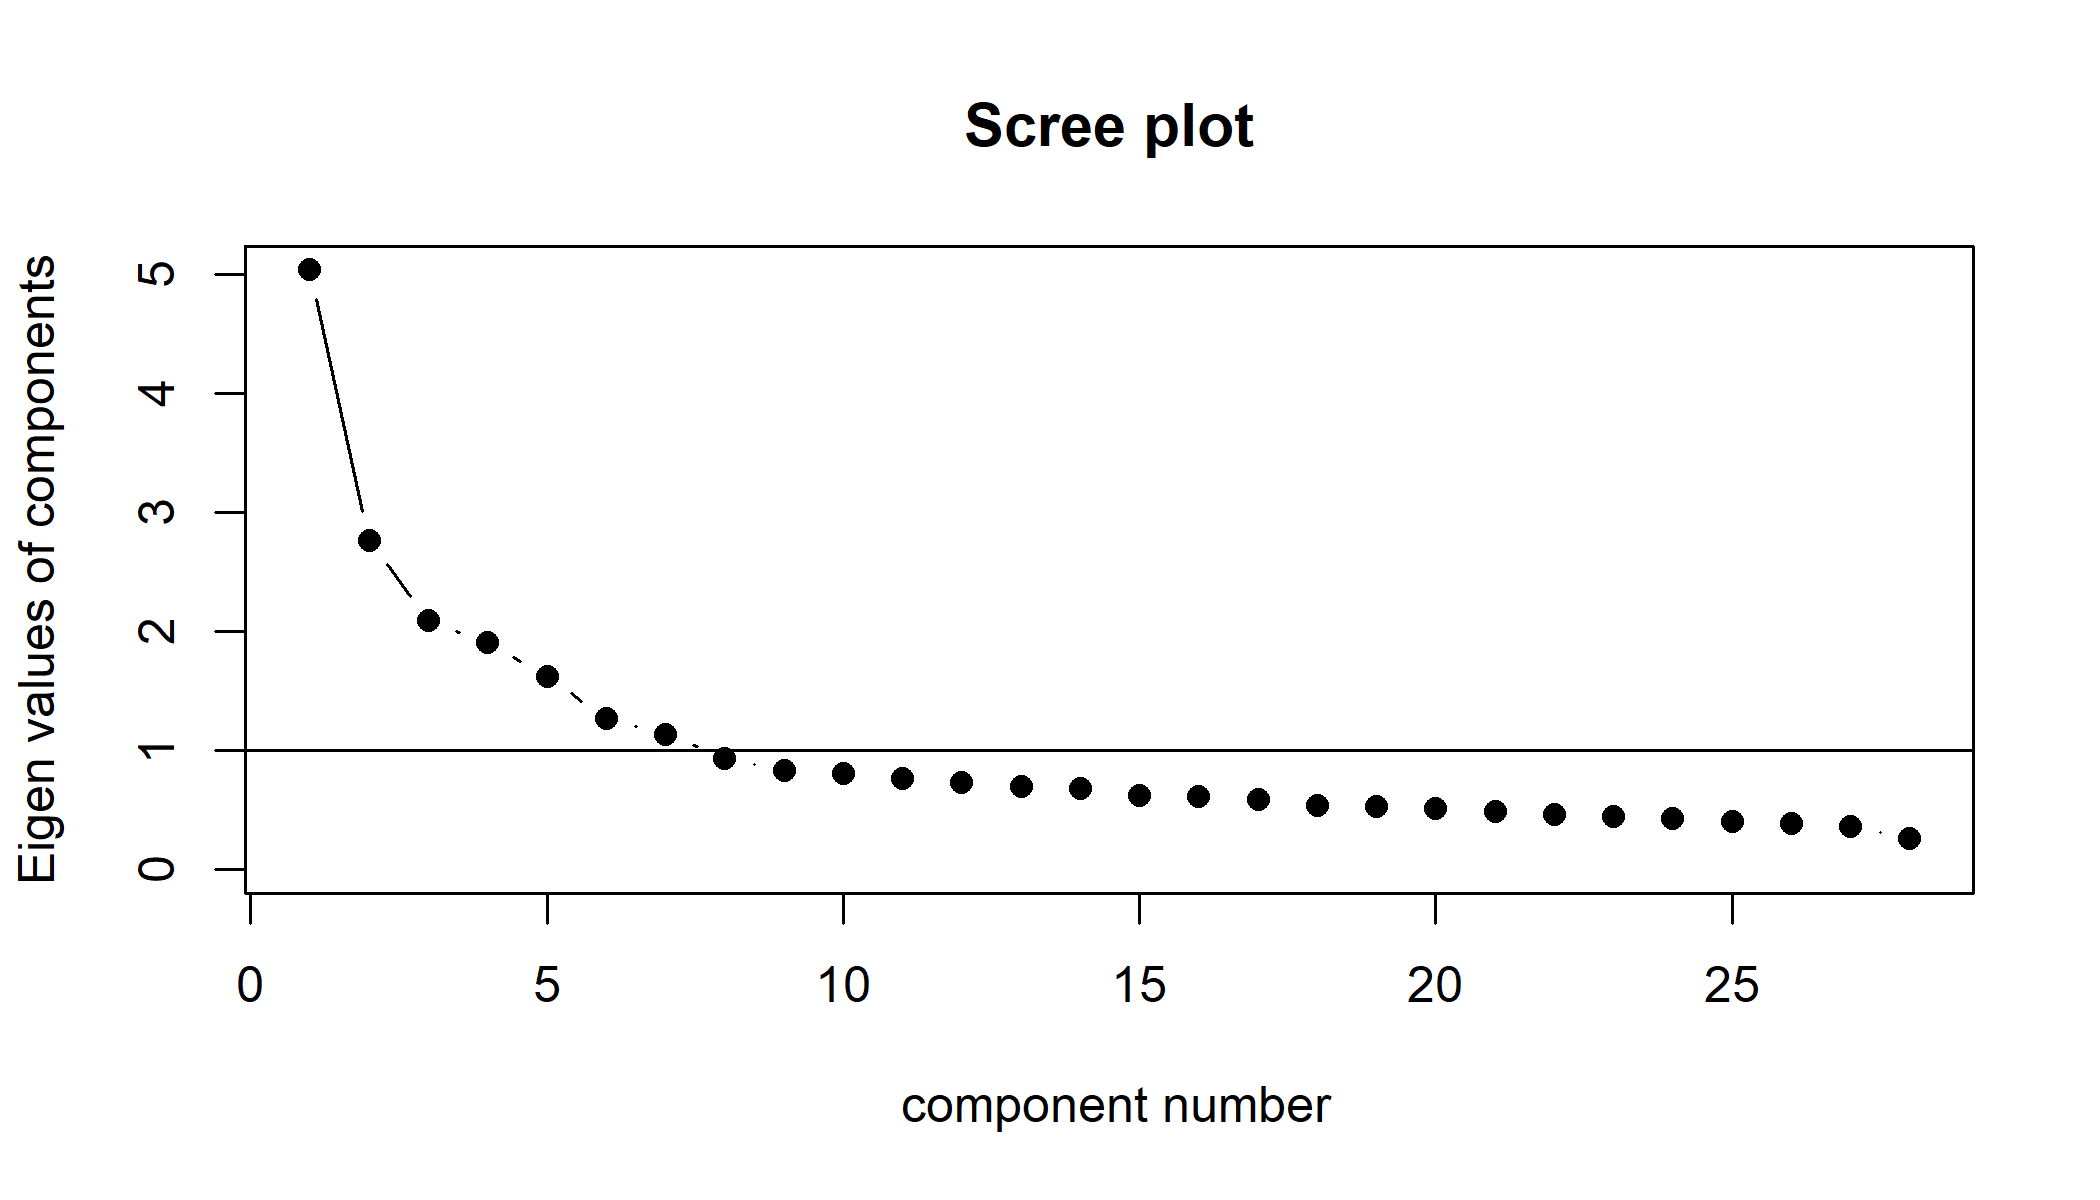
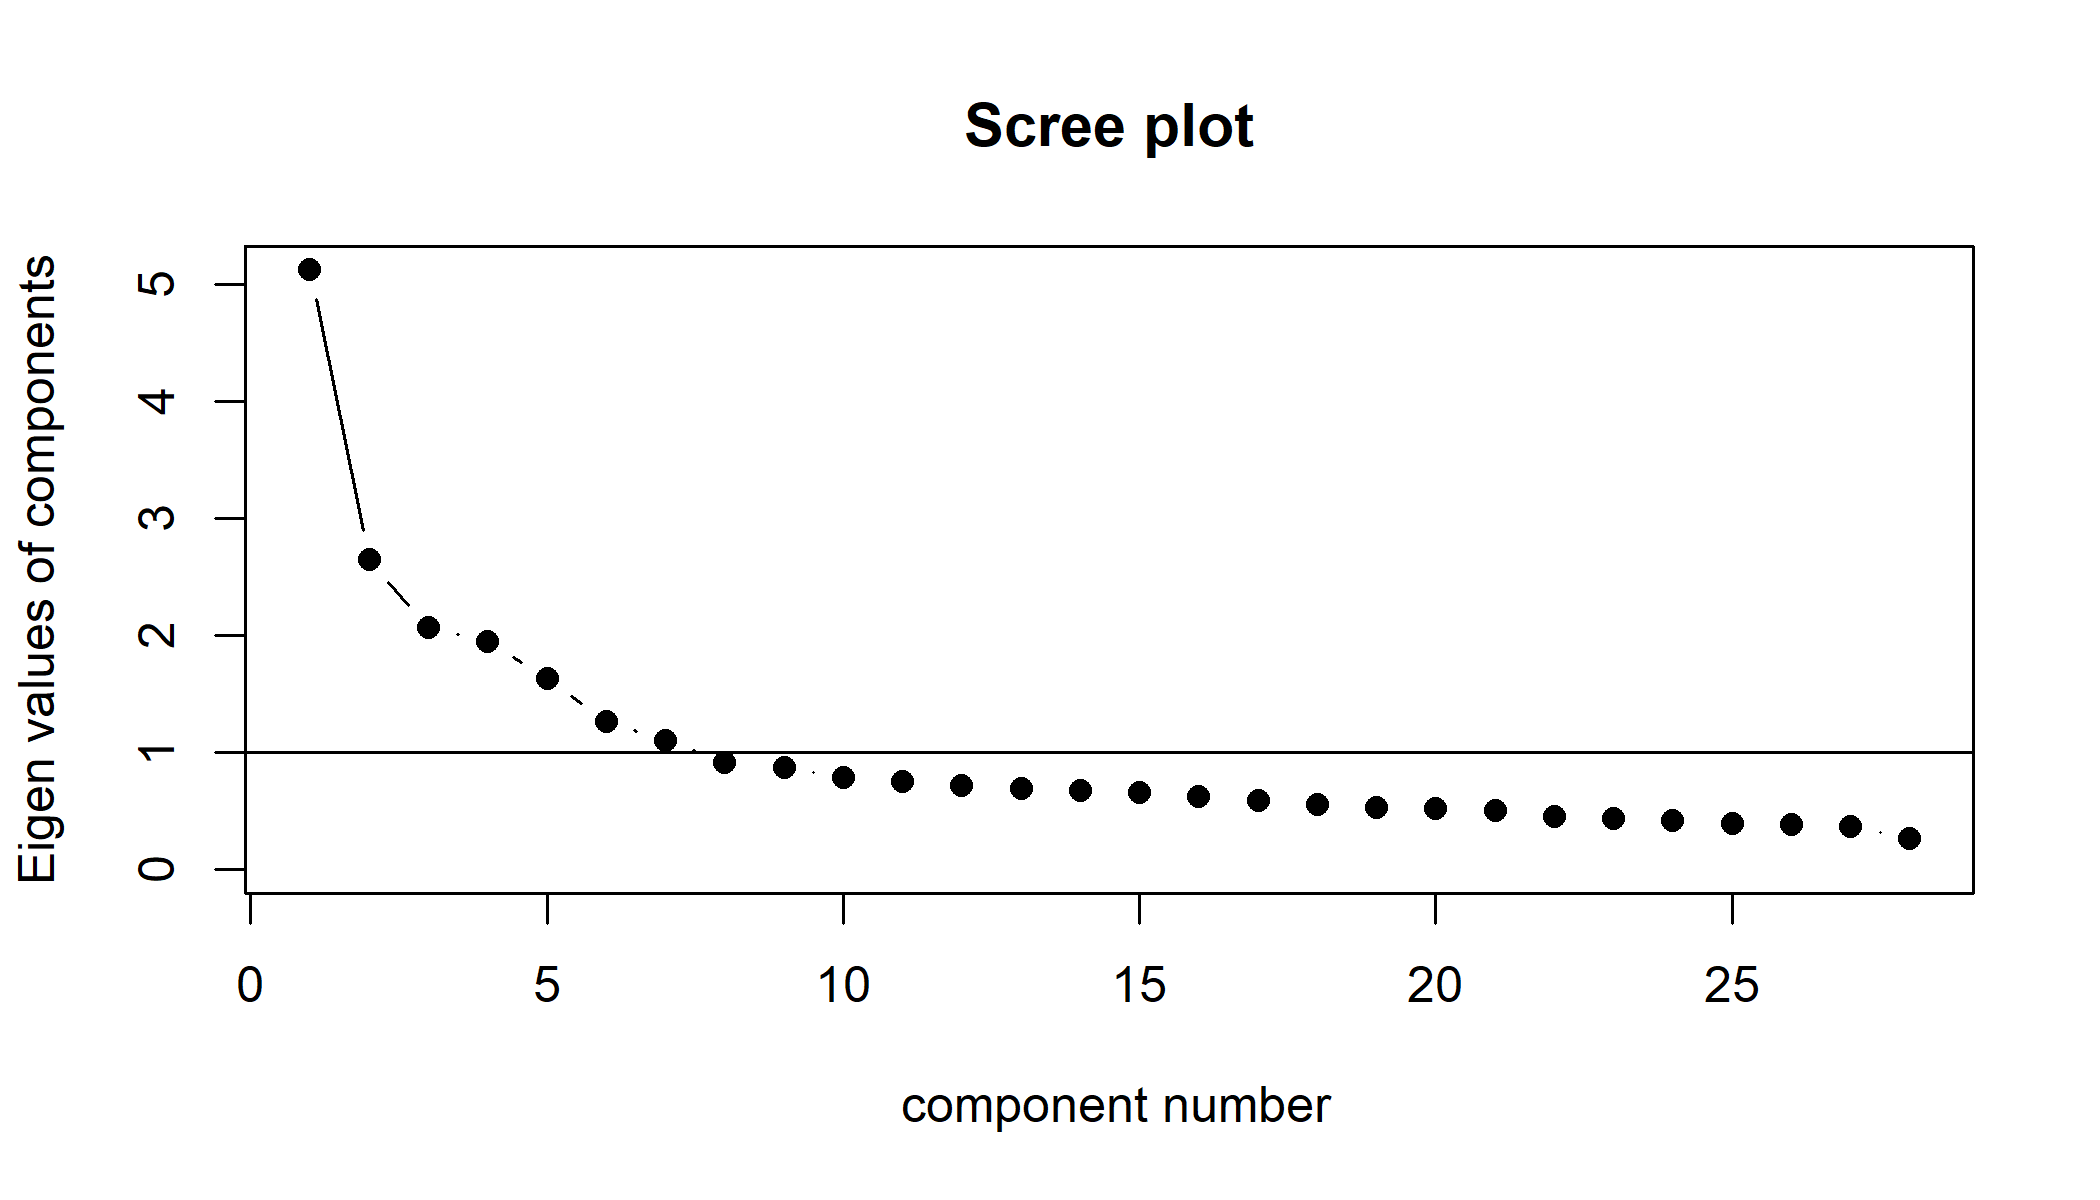
weiter

diff --git a/Predavanja/05_FA.html b/Predavanja/05_FA.html
@@ -257,7 +257,7 @@ fa.diagram(EFA_model)
 
 ---
 class: inverse, center, middle
-name: uni
+name: multi
 
 # MULTIDIMENZIONALNA FA
 
@@ -361,7 +361,7 @@ names(bfi)
 # Konstrukt
 
 
-&lt;img src="../Foto/bfi_FA.png" width="550px" style="display: block; margin: auto;" /&gt;
+&lt;img src="../Foto/bfi_FA.png" width="350px" style="display: block; margin: auto;" /&gt;
 
 ---
 
@@ -400,11 +400,11 @@ head(bfi_EFA, 2)
 
 ```
 ##       A1 A2 A3 A4 A5 C1 C2 C3 C4 C5 E1 E2 E3 E4 E5 N1 N2 N3 N4 N5 O1 O2 O3 O4
-## 66757  1  5  4  2  3  4  4  4  4  4  2  5  3  3  5  4  5  5  5  4  5  2  5  6
-## 61838  2  5  5  5  2  6  6  4  1  5  3  2  2  2  5  4  5  5  5  4  6  2  5  6
+## 64772  3  4  5  4  5  4  3  3  3  5  1  2  4  4  6  4  3  2  4  2  6  1  6  6
+## 65457  1  6  5  4  4  4  5  2  3  5  1  3  3  4  5  2  3  5  6  2  5  1  5  5
 ##       O5 gender education age
-## 66757  2      2         3  20
-## 61838  1      1         5  47
+## 64772  1      1         3  19
+## 65457  2      2        NA  14
 ```
 
 ```r
@@ -413,10 +413,10 @@ head(bfi_CFA, 2)
 
 ```
 ##       A1 A2 A3 A4 A5 C1 C2 C3 C4 C5 E1 E2 E3 E4 E5 N1 N2 N3 N4 N5 O1 O2 O3 O4
-## 61621  4  4  6  5  5  4  4  3  5  5  5  3  4  4  4  2  5  2  4  1  3  3  4  3
+## 61618  2  4  5  2  5  5  4  4  3  4  1  1  6  4  3  3  3  3  5  5  4  2  4  3
 ## 61622  2  3  3  4  5  4  4  5  3  2  2  2  5  4  5  2  3  4  4  3  3  3  4  3
 ##       O5 gender education age
-## 61621  5      2        NA  17
+## 61618  3      2        NA  18
 ## 61622  3      1        NA  17
 ```
 
@@ -440,30 +440,30 @@ head(bfi_EFA_cor,4)
 
 ```
 ##            A1         A2         A3         A4         A5         C1
-## A1  1.0000000 -0.2905517 -0.1797569 -0.1152389 -0.1486122 0.04299655
-## A2 -0.2905517  1.0000000  0.4705169  0.3247143  0.3768249 0.07701518
-## A3 -0.1797569  0.4705169  1.0000000  0.3742130  0.5171336 0.07543533
-## A4 -0.1152389  0.3247143  0.3742130  1.0000000  0.3102930 0.07536331
-##              C2          C3         C4          C5          E1         E2
-## A1 -0.002448194 -0.02996083  0.1333576  0.03574983  0.07549226  0.0464424
-## A2  0.139923829  0.21361859 -0.1669517 -0.14535604 -0.19457962 -0.2120082
-## A3  0.153094440  0.18561061 -0.1248764 -0.18105411 -0.19044538 -0.2863968
-## A4  0.244990812  0.15952719 -0.1902153 -0.27455743 -0.14724379 -0.2195858
-##             E3           E4           E5          N1          N2          N3
-## A1 0.009534576 -0.007856327 -0.001052211  0.16088861  0.14810259  0.13358425
-## A2 0.222298697  0.271667622  0.295530922 -0.09170225 -0.04566059 -0.04753091
-## A3 0.385362851  0.384065949  0.261881467 -0.06206536 -0.07196310 -0.03090398
-## A4 0.203932623  0.310985718  0.196051005 -0.09297295 -0.13223958 -0.08540055
-##             N4           N5         O1         O2          O3          O4
-## A1  0.03678401  0.015232161 0.03119121 0.09623484 -0.07242904 -0.06865948
-## A2 -0.09154514 -0.008635105 0.10927224 0.03531233  0.18427587  0.11467326
-## A3 -0.14245659 -0.050154288 0.14851118 0.02710710  0.24336546  0.03559853
-## A4 -0.18335198 -0.056882695 0.08188023 0.01908792  0.10804088 -0.04474375
-##             O5     gender   education         age
-## A1  0.14229142 -0.1562980 -0.12812156 -0.14235404
-## A2 -0.09992000  0.1805420  0.00314298  0.07699440
-## A3 -0.03112728  0.1290228 -0.01288093  0.06249514
-## A4 -0.01052392  0.1270245 -0.03454948  0.13522774
+## A1  1.0000000 -0.3505093 -0.2763932 -0.1751496 -0.1722693 0.02206981
+## A2 -0.3505093  1.0000000  0.4554323  0.3288639  0.3664658 0.08165577
+## A3 -0.2763932  0.4554323  1.0000000  0.3908991  0.5030237 0.08899017
+## A4 -0.1751496  0.3288639  0.3908991  1.0000000  0.2823086 0.05208693
+##             C2         C3         C4          C5          E1         E2
+## A1 -0.02250393 -0.0423524  0.1508121  0.07512562  0.13409823  0.0863932
+## A2  0.11935528  0.1904713 -0.1749739 -0.14161183 -0.19947200 -0.2036074
+## A3  0.15648405  0.1351076 -0.1545443 -0.18862220 -0.21810410 -0.2919549
+## A4  0.22770176  0.1288228 -0.1296909 -0.22450922 -0.08316272 -0.1534721
+##            E3          E4          E5          N1          N2          N3
+## A1 -0.0577732 -0.07849661 -0.03255047  0.15526901  0.13082294  0.10315145
+## A2  0.2286430  0.23645760  0.28490551 -0.08243764 -0.07420536 -0.05114429
+## A3  0.3930356  0.35407531  0.25493723 -0.06997411 -0.11419995 -0.06294903
+## A4  0.1729540  0.25273446  0.13077119 -0.08496546 -0.13343960 -0.03461884
+##             N4           N5          O1          O2          O3           O4
+## A1  0.06119076  0.017117109 0.003841479  0.07754429 -0.07429083 -0.076591975
+## A2 -0.10908988 -0.001792059 0.106633299  0.01591266  0.14981870  0.068997813
+## A3 -0.15463796 -0.039619077 0.138747974 -0.03932385  0.22739595  0.004135995
+## A4 -0.13952043  0.012557748 0.029671749  0.03527579  0.05946149 -0.046614750
+##             O5     gender    education        age
+## A1  0.12312584 -0.1833013 -0.151549461 -0.1568229
+## A2 -0.10366193  0.1853337  0.017842732  0.1209288
+## A3 -0.05419832  0.1503068  0.053267805  0.1088078
+## A4  0.02829140  0.1149866  0.001402249  0.1355958
 ```
 ]
 
@@ -507,72 +507,72 @@ EFA_model
 ## Call: fa(r = bfi_EFA, nfactors = 6)
 ## Standardized loadings (pattern matrix) based upon correlation matrix
 ##             MR2   MR3   MR5   MR1   MR4   MR6    h2   u2 com
-## A1         0.11  0.06 -0.41 -0.07  0.06  0.46 0.348 0.65 2.2
-## A2         0.02  0.09  0.62 -0.04  0.02 -0.16 0.445 0.56 1.2
-## A3        -0.03  0.04  0.63 -0.10  0.08  0.06 0.506 0.49 1.1
-## A4        -0.06  0.20  0.39 -0.11 -0.07  0.02 0.271 0.73 1.8
-## A5        -0.19  0.02  0.55 -0.13  0.12  0.12 0.492 0.51 1.6
-## C1         0.04  0.51 -0.03  0.12  0.16  0.08 0.299 0.70 1.4
-## C2         0.09  0.68  0.06  0.15  0.07  0.12 0.481 0.52 1.2
-## C3         0.01  0.52  0.15  0.11 -0.03  0.05 0.301 0.70 1.3
-## C4         0.10 -0.65  0.04  0.11  0.04  0.22 0.547 0.45 1.4
-## C5         0.19 -0.52  0.00  0.19  0.09 -0.02 0.429 0.57 1.6
-## E1        -0.14  0.08 -0.12  0.60 -0.03  0.07 0.384 0.62 1.3
-## E2         0.03  0.00 -0.10  0.68 -0.07 -0.01 0.550 0.45 1.1
-## E3         0.00  0.01  0.26 -0.25  0.36  0.22 0.436 0.56 3.4
-## E4        -0.04  0.03  0.32 -0.45  0.04  0.28 0.536 0.46 2.6
-## E5         0.17  0.30  0.10 -0.37  0.21  0.02 0.391 0.61 3.2
-## N1         0.81 -0.02 -0.07 -0.09 -0.02  0.03 0.642 0.36 1.0
-## N2         0.84  0.03 -0.06 -0.08 -0.02 -0.05 0.673 0.33 1.0
-## N3         0.68 -0.03  0.07  0.12  0.04  0.07 0.546 0.45 1.1
-## N4         0.43 -0.13  0.07  0.42  0.10 -0.01 0.492 0.51 2.3
-## N5         0.43 -0.01  0.21  0.29 -0.15  0.07 0.373 0.63 2.7
-## O1        -0.04  0.05 -0.02  0.02  0.63  0.11 0.417 0.58 1.1
-## O2         0.12 -0.09  0.21  0.06 -0.33  0.29 0.271 0.73 3.3
-## O3         0.00  0.02  0.11 -0.07  0.62 -0.06 0.461 0.54 1.1
-## O4         0.09 -0.03  0.17  0.35  0.36 -0.09 0.259 0.74 2.7
-## O5         0.02 -0.01  0.06  0.01 -0.46  0.39 0.360 0.64 2.0
-## gender     0.15  0.13  0.29 -0.03 -0.24 -0.17 0.165 0.83 3.7
-## education  0.00  0.00  0.04  0.06  0.09 -0.23 0.066 0.93 1.5
-## age       -0.06  0.07  0.10  0.01  0.06 -0.24 0.089 0.91 1.9
+## A1         0.09  0.05 -0.55 -0.06  0.03  0.35 0.377 0.62 1.8
+## A2         0.02  0.08  0.61 -0.05  0.02 -0.06 0.419 0.58 1.1
+## A3        -0.03  0.04  0.61 -0.13  0.08  0.12 0.518 0.48 1.2
+## A4        -0.06  0.15  0.45 -0.01 -0.11  0.13 0.282 0.72 1.6
+## A5        -0.14  0.02  0.47 -0.17  0.12  0.20 0.456 0.54 2.1
+## C1         0.04  0.57 -0.08  0.06  0.18  0.04 0.362 0.64 1.3
+## C2         0.09  0.64  0.08  0.19  0.10  0.16 0.466 0.53 1.5
+## C3        -0.01  0.55  0.09  0.08 -0.06  0.07 0.311 0.69 1.2
+## C4         0.07 -0.64 -0.02  0.14  0.01  0.28 0.568 0.43 1.5
+## C5         0.17 -0.56 -0.02  0.16  0.12  0.00 0.438 0.56 1.5
+## E1        -0.15  0.07 -0.11  0.63 -0.10  0.12 0.441 0.56 1.4
+## E2         0.08 -0.04 -0.05  0.67 -0.05  0.00 0.546 0.45 1.1
+## E3         0.01  0.00  0.20 -0.30  0.37  0.28 0.480 0.52 3.4
+## E4        -0.04  0.01  0.20 -0.52  0.01  0.29 0.506 0.49 1.9
+## E5         0.14  0.29  0.07 -0.33  0.24  0.02 0.362 0.64 3.3
+## N1         0.81  0.00 -0.07 -0.09 -0.03  0.02 0.645 0.36 1.0
+## N2         0.82  0.02 -0.07 -0.07 -0.03 -0.06 0.658 0.34 1.0
+## N3         0.70 -0.03  0.07  0.10  0.04  0.05 0.547 0.45 1.1
+## N4         0.44 -0.15  0.06  0.38  0.10  0.01 0.466 0.53 2.4
+## N5         0.46  0.01  0.19  0.20 -0.16  0.09 0.340 0.66 2.1
+## O1        -0.07  0.04 -0.05 -0.03  0.62  0.08 0.413 0.59 1.1
+## O2         0.11 -0.09  0.11  0.02 -0.39  0.28 0.269 0.73 2.4
+## O3        -0.02  0.06  0.07 -0.06  0.62  0.00 0.452 0.55 1.1
+## O4         0.14 -0.05  0.15  0.32  0.35 -0.07 0.231 0.77 2.8
+## O5         0.04  0.00 -0.01  0.03 -0.46  0.35 0.344 0.66 1.9
+## gender     0.18  0.08  0.33 -0.07 -0.22 -0.12 0.171 0.83 3.1
+## education -0.02  0.01  0.14  0.08  0.09 -0.21 0.069 0.93 2.6
+## age       -0.08  0.09  0.20  0.02  0.02 -0.24 0.116 0.88 2.5
 ## 
 ##                        MR2  MR3  MR5  MR1  MR4  MR6
-## SS loadings           2.52 2.03 2.08 2.04 1.67 0.90
+## SS loadings           2.53 2.07 2.02 2.03 1.75 0.84
 ## Proportion Var        0.09 0.07 0.07 0.07 0.06 0.03
 ## Cumulative Var        0.09 0.16 0.24 0.31 0.37 0.40
-## Proportion Explained  0.22 0.18 0.19 0.18 0.15 0.08
-## Cumulative Proportion 0.22 0.40 0.59 0.77 0.92 1.00
+## Proportion Explained  0.23 0.18 0.18 0.18 0.16 0.07
+## Cumulative Proportion 0.23 0.41 0.59 0.77 0.93 1.00
 ## 
 ##  With factor correlations of 
 ##       MR2   MR3   MR5   MR1   MR4   MR6
-## MR2  1.00 -0.20 -0.05  0.26 -0.03  0.13
-## MR3 -0.20  1.00  0.22 -0.20  0.18 -0.01
-## MR5 -0.05  0.22  1.00 -0.27  0.21  0.10
-## MR1  0.26 -0.20 -0.27  1.00 -0.17 -0.08
-## MR4 -0.03  0.18  0.21 -0.17  1.00  0.00
-## MR6  0.13 -0.01  0.10 -0.08  0.00  1.00
+## MR2  1.00 -0.19 -0.09  0.25 -0.05  0.09
+## MR3 -0.19  1.00  0.21 -0.21  0.19  0.01
+## MR5 -0.09  0.21  1.00 -0.28  0.18  0.12
+## MR1  0.25 -0.21 -0.28  1.00 -0.22 -0.07
+## MR4 -0.05  0.19  0.18 -0.22  1.00  0.02
+## MR6  0.09  0.01  0.12 -0.07  0.02  1.00
 ## 
-## Mean item complexity =  1.9
+## Mean item complexity =  1.8
 ## Test of the hypothesis that 6 factors are sufficient.
 ## 
-## The degrees of freedom for the null model are  378  and the objective function was  7.54 with Chi Square of  10471.4
+## The degrees of freedom for the null model are  378  and the objective function was  7.54 with Chi Square of  10475.01
 ## The degrees of freedom for the model are 225  and the objective function was  0.65 
 ## 
 ## The root mean square of the residuals (RMSR) is  0.03 
 ## The df corrected root mean square of the residuals is  0.03 
 ## 
-## The harmonic number of observations is  1374 with the empirical chi square  697.57  with prob &lt;  8.3e-50 
-## The total number of observations was  1400  with Likelihood Chi Square =  904.5  with prob &lt;  3.3e-82 
+## The harmonic number of observations is  1373 with the empirical chi square  678.94  with prob &lt;  4.5e-47 
+## The total number of observations was  1400  with Likelihood Chi Square =  904.7  with prob &lt;  3.1e-82 
 ## 
 ## Tucker Lewis Index of factoring reliability =  0.887
 ## RMSEA index =  0.046  and the 90 % confidence intervals are  0.043 0.05
-## BIC =  -725.45
+## BIC =  -725.26
 ## Fit based upon off diagonal values = 0.98
 ## Measures of factor score adequacy             
 ##                                                    MR2  MR3  MR5  MR1  MR4  MR6
-## Correlation of (regression) scores with factors   0.93 0.88 0.88 0.88 0.85 0.77
-## Multiple R square of scores with factors          0.86 0.78 0.77 0.78 0.73 0.59
-## Minimum correlation of possible factor scores     0.72 0.55 0.55 0.56 0.46 0.18
+## Correlation of (regression) scores with factors   0.93 0.88 0.88 0.88 0.86 0.76
+## Multiple R square of scores with factors          0.86 0.78 0.77 0.78 0.74 0.58
+## Minimum correlation of possible factor scores     0.71 0.56 0.53 0.56 0.47 0.17
 ```
 ]
 
@@ -590,39 +590,39 @@ EFA_model$loadings
 ## 
 ## Loadings:
 ##           MR2    MR3    MR5    MR1    MR4    MR6   
-## A1         0.110        -0.407                0.459
-## A2                       0.622               -0.164
-## A3                       0.635                     
-## A4                0.204  0.389 -0.106              
-## A5        -0.193         0.548 -0.128  0.118  0.119
-## C1                0.514         0.123  0.165       
-## C2                0.676         0.151         0.120
-## C3                0.520  0.150  0.106              
-## C4         0.104 -0.652         0.115         0.219
-## C5         0.193 -0.523         0.188              
-## E1        -0.136        -0.124  0.605              
-## E2                      -0.102  0.682              
-## E3                       0.262 -0.249  0.359  0.219
-## E4                       0.322 -0.451         0.282
-## E5         0.166  0.296        -0.373  0.215       
-## N1         0.806                                   
-## N2         0.843                                   
-## N3         0.681                0.122              
-## N4         0.431 -0.128         0.420              
-## N5         0.427         0.211  0.286 -0.154       
-## O1                                     0.631  0.113
-## O2         0.119         0.208        -0.335  0.294
-## O3                       0.111         0.623       
-## O4                       0.166  0.349  0.356       
-## O5                                    -0.457  0.386
-## gender     0.151  0.135  0.292        -0.242 -0.169
-## education                                    -0.233
-## age                      0.105               -0.239
+## A1                      -0.553                0.349
+## A2                       0.612                     
+## A3                       0.613 -0.126         0.119
+## A4                0.152  0.448        -0.111  0.126
+## A5        -0.141         0.467 -0.174  0.122  0.202
+## C1                0.571                0.182       
+## C2                0.639         0.192         0.163
+## C3                0.547                            
+## C4               -0.644         0.139         0.277
+## C5         0.169 -0.558         0.160  0.116       
+## E1        -0.151        -0.111  0.626 -0.104  0.122
+## E2                              0.675              
+## E3                       0.196 -0.302  0.371  0.276
+## E4                       0.197 -0.521         0.291
+## E5         0.140  0.287        -0.332  0.241       
+## N1         0.810                                   
+## N2         0.822                                   
+## N3         0.703                0.100              
+## N4         0.442 -0.154         0.379  0.101       
+## N5         0.457         0.190  0.196 -0.159       
+## O1                                     0.619       
+## O2         0.115         0.114        -0.387  0.276
+## O3                                     0.622       
+## O4         0.139         0.146  0.322  0.354       
+## O5                                    -0.460  0.355
+## gender     0.179         0.328        -0.221 -0.125
+## education                0.141               -0.205
+## age                      0.198               -0.241
 ## 
 ##                  MR2   MR3   MR5   MR1   MR4   MR6
-## SS loadings    2.405 1.894 1.891 1.800 1.592 0.874
-## Proportion Var 0.086 0.068 0.068 0.064 0.057 0.031
-## Cumulative Var 0.086 0.154 0.221 0.285 0.342 0.373
+## SS loadings    2.436 1.936 1.857 1.791 1.660 0.826
+## Proportion Var 0.087 0.069 0.066 0.064 0.059 0.030
+## Cumulative Var 0.087 0.156 0.222 0.286 0.346 0.375
 ```
 ]
 
@@ -639,13 +639,13 @@ head(EFA_model$scores)
 ```
 
 ```
-##              MR2        MR3        MR5        MR1         MR4        MR6
-## 66757  1.2304745 -0.7158970 -0.3916725  0.9081370  0.26576722 -0.7642684
-## 61838  1.1534349  0.6971625 -0.5992622  0.7301752  0.89849966 -1.4380069
-## 63900 -0.3589217  0.5503795 -1.3230677  0.3086152 -0.03987346 -0.3805212
-## 66314 -1.0349343  1.0741188  0.5278979 -1.2345608 -0.17557513  0.6111159
-## 64327  0.8122693 -0.7219180  0.8757444  0.1257834 -0.48187449  0.2470659
-## 66680  0.1655470 -0.2088918 -0.3489737 -0.4549878 -1.14398212 -0.2998097
+##               MR2        MR3        MR5        MR1        MR4        MR6
+## 64772 -0.03455064 -0.8492553 -0.4487884 -0.6522360  1.5172652 -0.3709201
+## 65457          NA         NA         NA         NA         NA         NA
+## 66564  1.61574883 -0.7984542 -0.2113883 -1.0263419  0.4168556  0.5276468
+## 63947  0.75642998  1.1185582  0.9334175 -1.2731006  0.8953352  0.1729251
+## 66139 -0.27358315 -0.8034764 -0.1844136  0.3660542 -0.4193517  2.2520870
+## 62073          NA         NA         NA         NA         NA         NA
 ```
 
 ---
@@ -682,7 +682,7 @@ bfi_theory$BIC
 ```
 
 ```
-## [1] -385.6062
+## [1] -372.7677
 ```
 
 ```r
@@ -690,7 +690,7 @@ bfi_eigen$BIC
 ```
 
 ```
-## [1] -725.4524
+## [1] -725.2551
 ```
 
 
@@ -727,14 +727,14 @@ name: conf
 &lt;br&gt;
 
 
-&lt;img src="assets/8729071.png" width="614" style="display: block; margin: auto;" /&gt;
+&lt;img src="assets/3505037.png" width="614" style="display: block; margin: auto;" /&gt;
 
 ---
 
-# Skica II (*više konstrukta*)
+# Skica II (*više konstrukata*)
 &lt;br&gt;
 &lt;br&gt;
-&lt;img src="assets/3508846.png" width="507" style="display: block; margin: auto;" /&gt;
+&lt;img src="assets/7066301.png" width="507" style="display: block; margin: auto;" /&gt;
 
 
 ---
@@ -790,7 +790,7 @@ maths =~ x7 + x8 + x9
 
 
 
-.footnote[ [*]Za detalje o lavaan projektu pogledajte [stranicu](https://lavaan.ugent.be/tutorial/syntax1.html)].
+.footnote[ [*]Za detalje o lavaan projektu pogledajte [stranicu](https://lavaan.ugent.be/tutorial/syntax1.html).]
 
 ---
 
